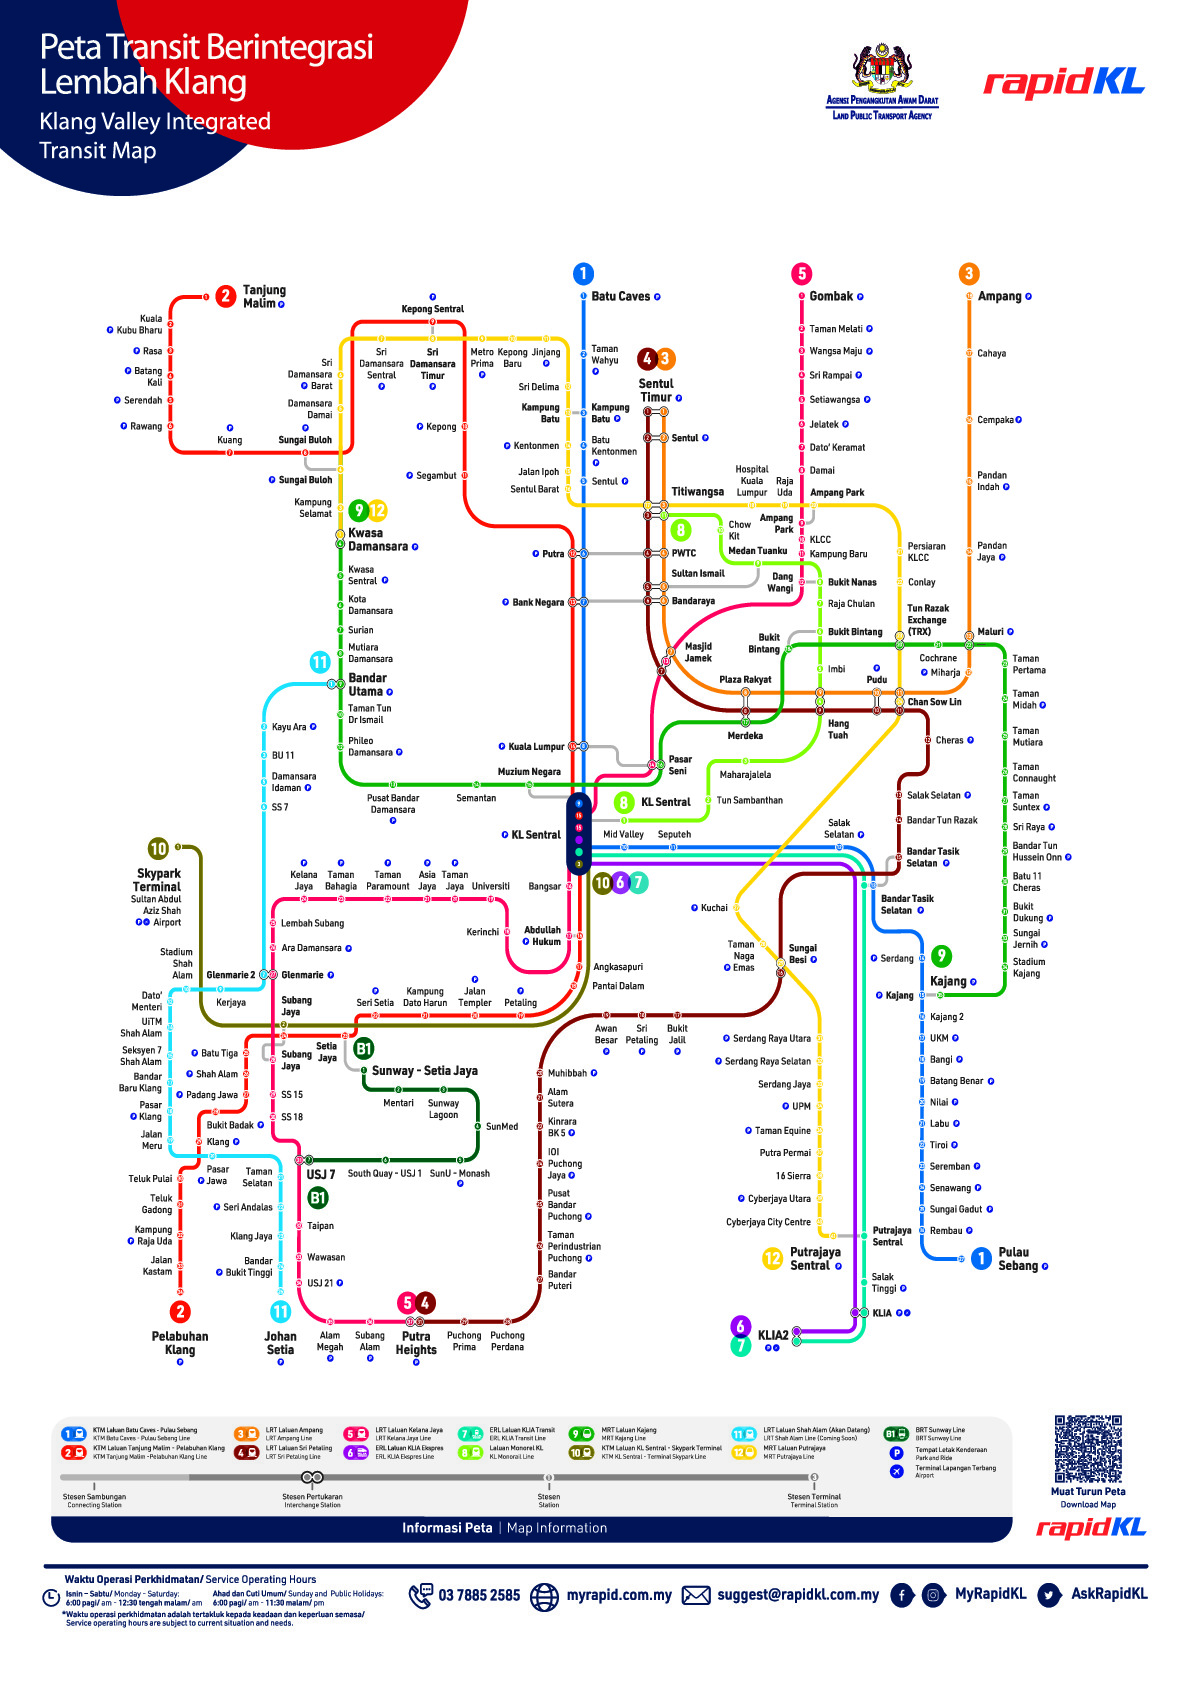
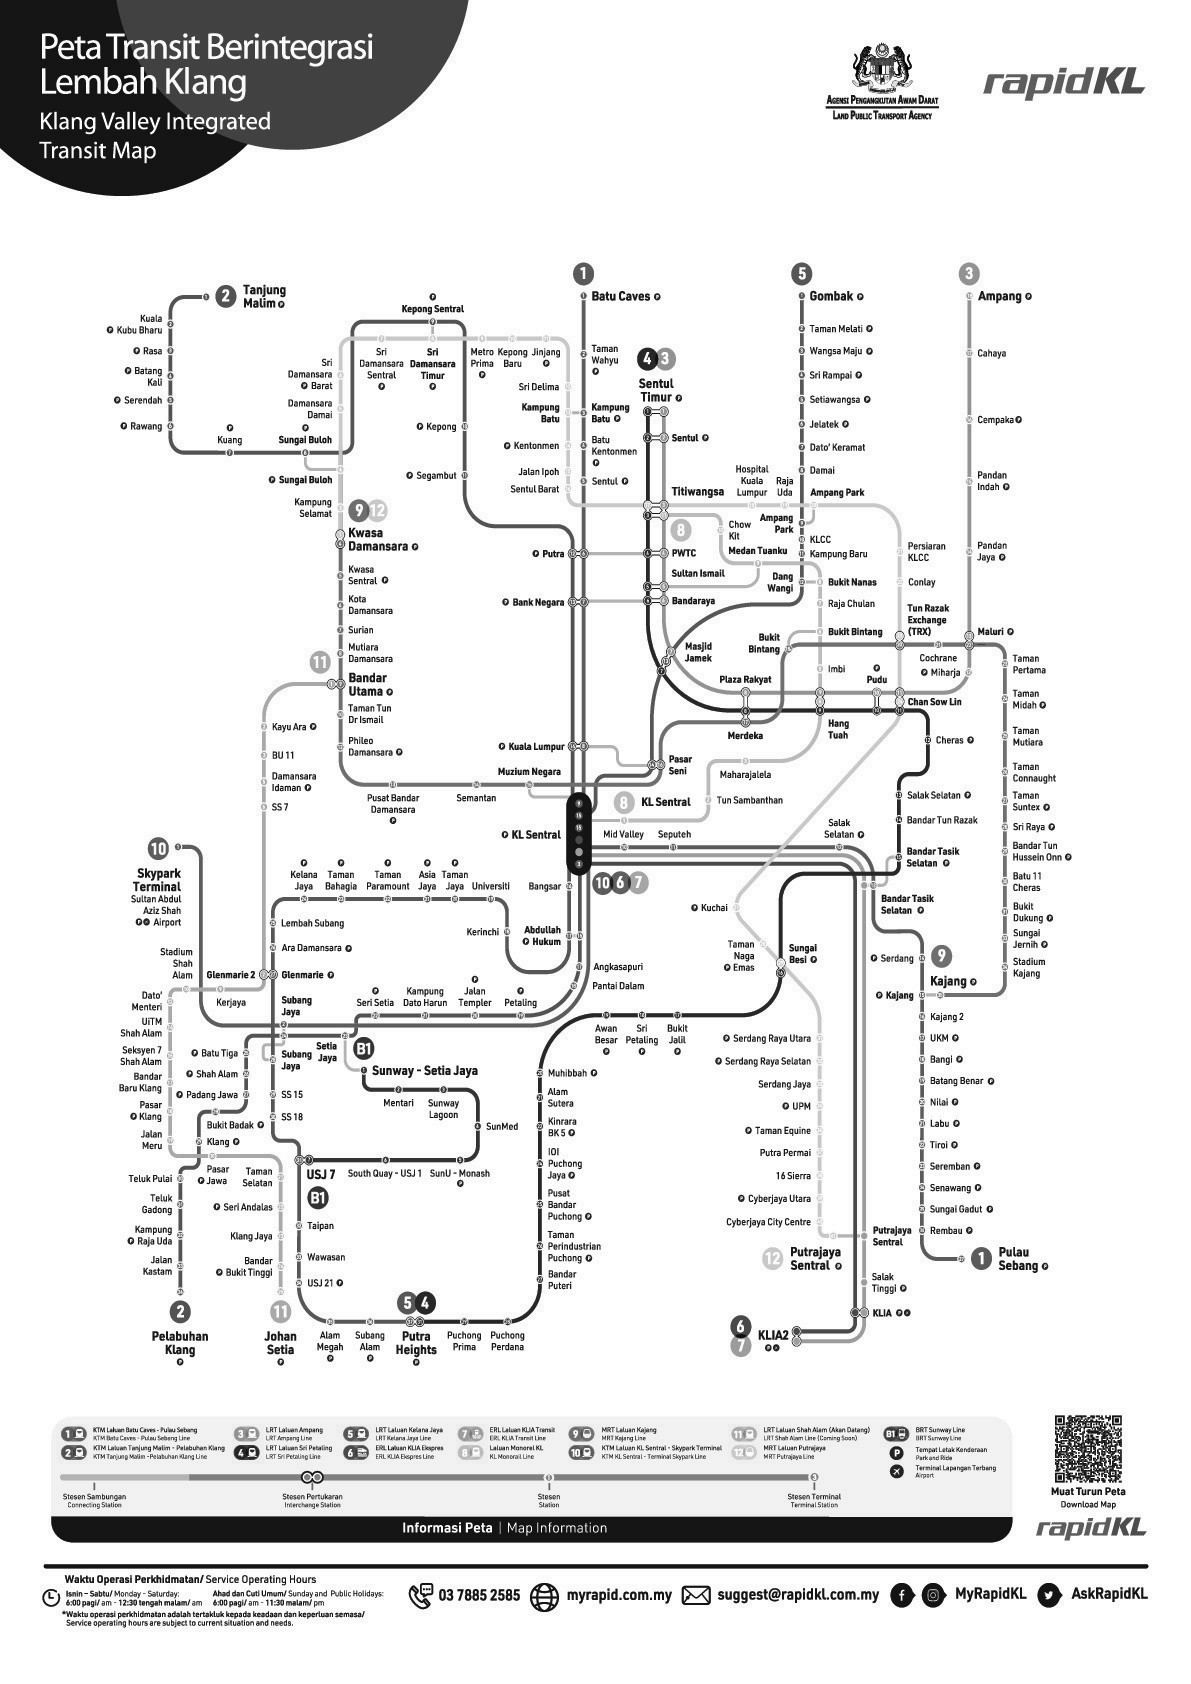
Update Layout

diff --git a/resources/views/user/training-list.blade.php b/resources/views/user/training-list.blade.php
@@ -66,7 +66,7 @@
   <!-- Chevrons Breadcrumbs End -->
 
   <!-- Display File -->
-  <div class="container mx-auto  bg-slate-500 ">
+  {{-- <div class="container mx-auto  bg-slate-500 ">
     <div class="py-4 grid grid-cols-2 gap-1">
       <!-- Content Left Side -->
       <div class="max-w-xl sm:px-6 lg:px-8">
@@ -300,8 +300,184 @@
         </div>
       </div>
     </div>
+  </div> --}}
+
+  <div class="container mx-auto bg-slate-500">
+    <div class="py-4 px-2 grid grid-cols-1 sm:grid-cols-3 gap-4">
+      <!-- Content Left Side -->
+      <div class="sm:col-span-2">
+        <div class="bg-white overflow-hidden shadow-sm sm:rounded-lg">
+          <div class="bg-white border rounded shadow p-4">
+            <div class="p-2">
+              @if (Session::has('message'))
+                <div class="bg-green-500 text-white px-4 py-2 rounded">
+                  {{ Session::get('message') }}
+                </div>
+              @endif
+              <div class="flex flex-col">
+                <div class="overflow-x-auto sm:-mx-6 lg:-mx-8 w-full h-full">
+                  <div class="inline-block min-w-full py-0 sm:px-6 lg:px-8">
+                    <div class="overflow-hidden">
+                      <table class="min-w-full text-left text-sm font-light">
+                        <thead class="border-b font-medium dark:border-neutral-500">
+                          <tr>
+                            <th scope="col" class="px-6 py-4">File</th>
+                          </tr>
+                        </thead>
+                        <tbody>
+                          @foreach ($trainings as $training)
+                            <tr
+                              class="border-b transition duration-300 ease-in-out hover:bg-neutral-100 dark:border-neutral-500 dark:hover:bg-neutral-600">
+                              <td class="whitespace-nowrap px-6 py-4">
+                                <img src="{{ asset('images/trainings/' . $training->photo) }}" alt=""
+                                  class="training-image"
+                                  data-original-src="{{ asset('images/trainings/' . $training->photo) }}">
+                              </td>
+                            </tr>
+                          @endforeach
+                        </tbody>
+                      </table>
+                    </div>
+                  </div>
+                </div>
+              </div>
+            </div>
+          </div>
+        </div>
+      </div>
+      <!-- Content Right Side -->
+      <div>
+        <div class="bg-white overflow-hidden shadow-sm sm:rounded-lg">
+          <div class="bg-white border rounded shadow p-5">
+            <div class="p-2">
+              @if (Session::has('message'))
+                <div class="bg-green-500 text-white px-4 py-2 rounded">
+                  {{ Session::get('message') }}
+                </div>
+              @endif
+              <div class="flex flex-col">
+                <div class="overflow-x-auto sm:-mx-6 lg:-mx-8 w-full">
+                  <div class="inline-block min-w-full py-2 sm:px-6 lg:px-8">
+                    <div class="overflow-hidden">
+                      <form id="preferenceForm">
+                        @csrf
+                        <table class="min-w-full text-left text-sm font-light">
+                          <thead class="border-b font-medium dark:border-neutral-500">
+                            <tr>
+                              <th scope="col" class="px-6 py-4">Set Preference</th>
+                            </tr>
+                          </thead>
+                          <tbody>
+                            <tr>
+                              <td>Printing Color</td>
+                              <td>
+                                <div class="grid w-full place-items-center">
+                                  <div class="grid w-52 grid-cols-2 gap-2 rounded-xl bg-gray-50 p-2">
+                                    <div>
+                                      <input type="radio" name="printing_color_option"
+                                        id="printing_color_option_black" value="1" class="peer hidden" />
+                                      <label for="printing_color_option_black"
+                                        class="block text-xs cursor-pointer select-none rounded-xl p-2 text-center peer-checked:bg-blue-500 peer-checked:font-bold peer-checked:text-white">Black
+                                        & White</label>
+                                    </div>
+                                    <div>
+                                      <input type="radio" name="printing_color_option"
+                                        id="printing_color_option_color" value="2" class="peer hidden" />
+                                      <label for="printing_color_option_color"
+                                        class="block text-xs cursor-pointer select-none rounded-xl p-2 text-center peer-checked:bg-blue-500 peer-checked:font-bold peer-checked:text-white">Color</label>
+                                    </div>
+                                  </div>
+                                </div>
+                              </td>
+                            </tr>
+                            <tr>
+                              <td>Layout</td>
+                              <td>
+                                <div class="grid w-full place-items-center">
+                                  <div class="grid w-52 grid-cols-2 gap-2 rounded-xl bg-gray-50 p-2">
+                                    <div>
+                                      <input type="radio" name="layout_option" id="layout_option_portrait"
+                                        value="portrait" class="peer hidden" />
+                                      <label for="layout_option_portrait"
+                                        class="block text-xs cursor-pointer select-none rounded-xl p-2 text-center peer-checked:bg-blue-500 peer-checked:font-bold peer-checked:text-white">Portrait</label>
+                                    </div>
+                                    <div>
+                                      <input type="radio" name="layout_option" id="layout_option_landscape"
+                                        value="landscape" class="peer hidden" />
+                                      <label for="layout_option_landscape"
+                                        class="block text-xs cursor-pointer select-none rounded-xl p-2 text-center peer-checked:bg-blue-500 peer-checked:font-bold peer-checked:text-white">Landscape</label>
+                                    </div>
+                                  </div>
+                                </div>
+                              </td>
+                            </tr>
+                            <!-- Other preferences here -->
+                          </tbody>
+                        </table>
+                        <div class="flex justify-center px-6 py-4">
+                          <button type="submit"
+                            class="py-2 px-4 inline-flex my-5 items-center gap-x-2 text-sm font-semibold rounded-lg border border-transparent bg-blue-100 text-blue-800 hover:bg-blue-200">
+                            Apply Preferences
+                          </button>
+                        </div>
+                      </form>
+                    </div>
+                  </div>
+                </div>
+              </div>
+            </div>
+          </div>
+        </div>
+      </div>
+    </div>
   </div>
 
+  <!-- Add JavaScript to handle the display change -->
+  <script>
+    document.addEventListener("DOMContentLoaded", function() {
+      const images = document.querySelectorAll('.training-image');
+
+      images.forEach(image => {
+        // Set initial display size to match portrait layout
+        image.style.width = '550px'; // Portrait width
+        image.style.height = '500px'; // Portrait height
+        image.style.maxWidth = '450px'; // Max width for portrait layout
+        image.style.maxHeight = '800px'; // Max height for portrait layout
+      });
+    });
+
+    document.getElementById('preferenceForm').addEventListener('submit', function(event) {
+      event.preventDefault();
+
+      const selectedColorOption = document.querySelector('input[name="printing_color_option"]:checked').value;
+      const selectedLayoutOption = document.querySelector('input[name="layout_option"]:checked').value;
+      const images = document.querySelectorAll('.training-image');
+
+      images.forEach(image => {
+        // Apply color preference
+        if (selectedColorOption == '1') {
+          image.style.filter = 'grayscale(100%)';
+        } else {
+          image.style.filter = 'none';
+        }
+
+        // Apply layout preference
+        if (selectedLayoutOption == 'landscape') {
+          image.style.width = '610px'; // Landscape width
+          image.style.height = '450px'; // Landscape height
+          image.style.maxWidth = '800px'; // Max width for landscape layout
+          image.style.maxHeight = '450px'; // Max height for landscape layout
+        } else {
+          image.style.width = '450px'; // Portrait width
+          image.style.height = '800px'; // Portrait height
+          image.style.maxWidth = '450px'; // Max width for portrait layout
+          image.style.maxHeight = '800px'; // Max height for portrait layout
+        }
+      });
+
+      // Optionally, you can add code here to submit the form asynchronously using AJAX if needed
+    });
+  </script>
 
 
   <div class="flex justify-center px-6 py-4">

diff --git a/app/Http/Controllers/TrainingController.php b/app/Http/Controllers/TrainingController.php
@@ -280,6 +280,36 @@ class TrainingController extends Controller
         return redirect()->route('user.training-form')->with('message', 'All uploaded files and data have been deleted.');
     }
 
+    public function updateDocumentDisplay(Request $request)
+    {
+        // Validate the request data
+        $request->validate([
+            'printing_color_option' => 'required|in:1,2',
+            // Add other validations if needed
+        ]);
+
+        $printingColorOption = $request->input('printing_color_option');
+        $trainings = Training::all();
+
+        foreach ($trainings as $training) {
+            $imagePath = public_path('images/trainings/' . $training->photo);
+            if (File::exists($imagePath)) {
+                if ($printingColorOption == '1') {
+                    // Convert the image to black and white
+                    $image = Image::make($imagePath)->greyscale();
+                    $image->save($imagePath);
+                } else {
+                    // For simplicity, assume color images are already uploaded as color
+                    // Additional logic can be added here if needed
+                }
+            }
+        }
+
+        // Flash a message to the session
+        session()->flash('message', 'Preferences applied successfully.');
+
+        return redirect()->route('user.training-list');
+    }
 
 
 }

diff --git a/routes/web.php b/routes/web.php
@@ -44,6 +44,7 @@ Route::middleware('auth')->group(function () {
     Route::get('/user/training-list', [\App\Http\Controllers\TrainingController::class, 'getTrainingList'])->name('user.training-list');
     Route::post('/user/add-training', [\App\Http\Controllers\TrainingController::class, 'postAddTraining'])->name('user.add-training');
     Route::post('/user/delete-training', [\App\Http\Controllers\TrainingController::class, 'DeleteTraining'])->name('user.delete-training');
+    Route::post('/user/update-document-display', [\App\Http\Controllers\TrainingController::class, 'updateDocumentDisplay'])->name('user.update-document-display');
 
 });
 
